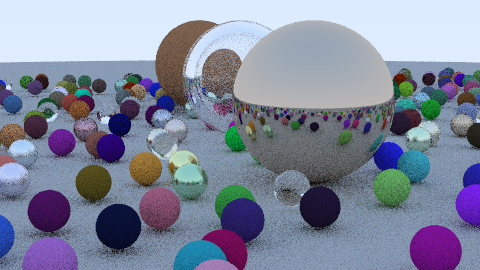
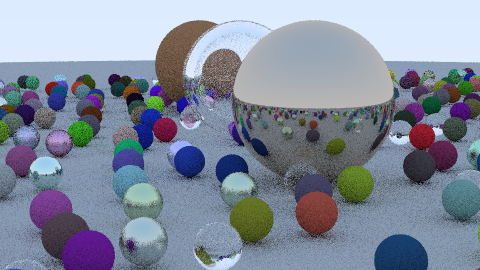
moved renderer to kernel space

diff --git a/src/raytracer/camera.rs b/src/raytracer/camera.rs
@@ -6,16 +6,12 @@ use cust::{
 use gpu_rand::DefaultRand;
 use grid_nd::GridND;
 use image::{ImageBuffer, RgbImage};
-use indicatif::ProgressBar;
 use rand::Rng;
-use simple_ray_tracer_kernels::{ImageRenderOptions, hitable::HitKind, ray::Ray};
+use simple_ray_tracer_kernels::{ImageRenderOptions, hitable::HitKind};
 
 use crate::{Result, raytracer::options::RenderOptions};
 
-use simple_ray_tracer_kernels::{
-    color::Color,
-    vec3::{Real, Vec3},
-};
+use simple_ray_tracer_kernels::{color::Color, vec3::Real};
 
 static PTX: &str = include_str!(concat!(env!("OUT_DIR"), "/kernels.ptx"));
 
@@ -120,7 +116,7 @@ impl Camera {
             grid.copy_back(&grid_device)?;
 
             //CPU rendering
-            Self::render_image(&mut grid, world, &image_render_options);
+            simple_ray_tracer_kernels::render_image(&mut grid, world, &image_render_options);
         }
 
         let img: RgbImage =
@@ -130,47 +126,5 @@ impl Camera {
             });
         img.save(&self.render_options.file_name)?;
         Ok(())
-    }
-
-    fn render_image(grid: &mut GridND<Color, 2>, world: &HitKind, options: &ImageRenderOptions) {
-        // Set up the progress bar
-        let progress = ProgressBar::new(grid.shape().iter().product::<usize>() as u64);
-        for i in 0..grid.shape()[1] {
-            for j in 0..grid.shape()[0] {
-                let mut pixel_color = Color::black();
-                for _ in 0..options.samples_per_pixel {
-                    // Calculate the pixel sample location.
-                    let offset = Vec3::sample_square();
-                    let pixel_sample = options.pixel00_loc
-                        + (options.pixel_delta_u * (i as Real + offset.x))
-                        + (options.pixel_delta_v * (j as Real + offset.y));
-
-                    // Apply defocus if enabled
-                    let ray_origin = options.origin
-                        + if options.defocus_angle > 0.0 {
-                            Camera::defocus_disk_sample(
-                                options.defocus_disk_u,
-                                options.defocus_disk_v,
-                            )
-                        } else {
-                            Vec3::zero()
-                        };
-
-                    let ray_direction = pixel_sample - ray_origin;
-                    let ray = Ray::new(ray_origin, ray_direction);
-
-                    pixel_color += ray.color(options.max_depth, world);
-                }
-                // Store the pixel color in the grid
-                *grid.at_mut(j).at_mut(i) = pixel_color / options.samples_per_pixel as Real;
-            }
-            progress.inc(grid.shape()[0] as u64);
-        }
-        progress.finish();
-    }
-
-    fn defocus_disk_sample(defocus_disk_u: Vec3, defocus_disk_v: Vec3) -> Vec3 {
-        let offset = Vec3::random_in_unit_disk();
-        defocus_disk_u * offset.x + defocus_disk_v * offset.y
     }
 }

diff --git a/kernels/src/lib.rs b/kernels/src/lib.rs
@@ -8,6 +8,11 @@ use cuda_std::prelude::*;
 use cust::DeviceCopy;
 
 use crate::vec3::{Point3, Real, Vec3};
+use crate::{color::Color, hitable::HitKind};
+use grid_nd::GridND;
+
+#[cfg(not(target_os = "cuda"))]
+use indicatif::ProgressBar;
 
 pub mod color;
 pub mod hitable;
@@ -30,4 +35,42 @@ pub struct ImageRenderOptions {
     pub pixel00_loc: Point3,
     pub pixel_delta_u: Vec3,
     pub pixel_delta_v: Vec3,
+}
+
+#[cfg(not(target_os = "cuda"))]
+pub fn render_image(grid: &mut GridND<Color, 2>, world: &HitKind, options: &ImageRenderOptions) {
+    // Set up the progress bar
+    let progress = ProgressBar::new(grid.shape().iter().product::<usize>() as u64);
+    for i in 0..grid.shape()[1] {
+        for j in 0..grid.shape()[0] {
+            let mut pixel_color = Color::black();
+            for _ in 0..options.samples_per_pixel {
+                // Calculate the pixel sample location.
+
+                use crate::ray::Ray;
+                let offset = Vec3::sample_square();
+                let pixel_sample = options.pixel00_loc
+                    + (options.pixel_delta_u * (i as Real + offset.x))
+                    + (options.pixel_delta_v * (j as Real + offset.y));
+
+                // Apply defocus if enabled
+                let ray_origin = options.origin
+                    + if options.defocus_angle > 0.0 {
+                        let offset = Vec3::random_in_unit_disk();
+                        options.defocus_disk_u * offset.x + options.defocus_disk_v * offset.y
+                    } else {
+                        Vec3::zero()
+                    };
+
+                let ray_direction = pixel_sample - ray_origin;
+                let ray = Ray::new(ray_origin, ray_direction);
+
+                pixel_color += ray.color(options.max_depth, world);
+            }
+            // Store the pixel color in the grid
+            *grid.at_mut(j).at_mut(i) = pixel_color / options.samples_per_pixel as Real;
+        }
+        progress.inc(grid.shape()[0] as u64);
+    }
+    progress.finish();
 }

diff --git a/kernels/src/hitable_list.rs b/kernels/src/hitable_list.rs
@@ -12,7 +12,10 @@ pub struct HitableListBuilder<'a> {
 }
 
 #[cfg(not(target_os = "cuda"))]
-use cust::memory::DeviceCopy;
+use cust::{
+    error::CudaResult,
+    memory::{DeviceBox, DeviceBuffer, DeviceCopy},
+};
 
 #[cfg_attr(not(target_os = "cuda"), derive(Clone, Copy))]
 pub struct HitableList<'a> {
@@ -42,6 +45,21 @@ impl<'a> HitableListBuilder<'a> {
             hitables: self.hitables.as_slice(),
         }
         .into()
+    }
+
+    pub fn build_device(
+        &self,
+    ) -> CudaResult<(DeviceBox<HitableList<'a>>, DeviceBuffer<HitKind<'a>>)> {
+        let device_buffer = DeviceBuffer::from_slice(self.hitables.as_slice())?;
+        let hitable_list = HitableList {
+            hitables: unsafe {
+                std::slice::from_raw_parts(
+                    device_buffer.as_device_ptr().as_ptr(),
+                    device_buffer.len(),
+                )
+            },
+        };
+        Ok((DeviceBox::new(&hitable_list)?, device_buffer))
     }
 }
 
